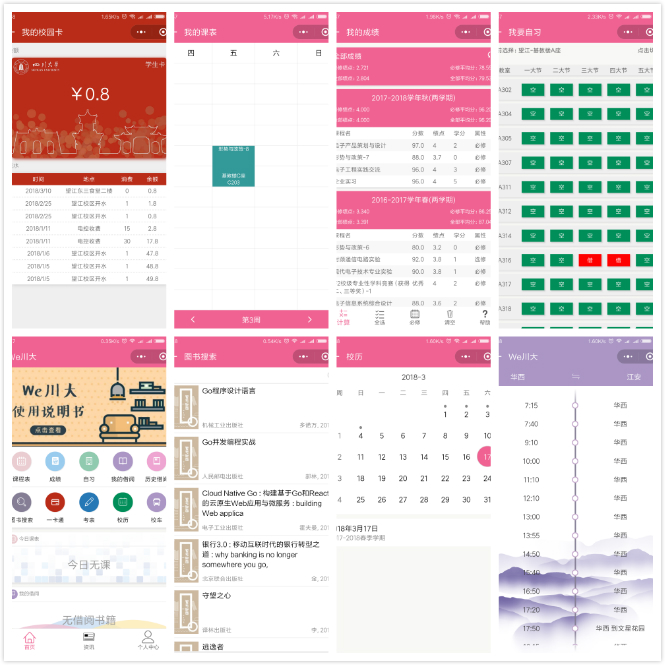
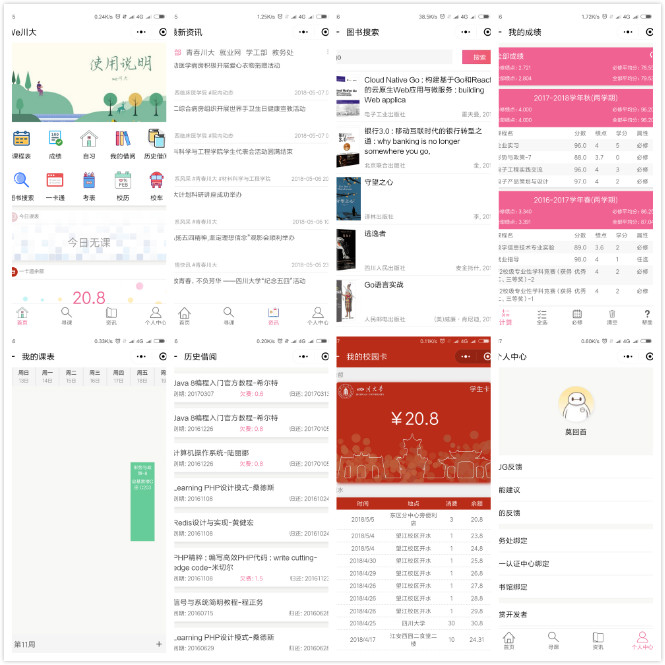
update readme

diff --git a/readme.md b/readme.md
@@ -9,27 +9,56 @@
 ## 功能概要
 
 - [x] 成绩查询/绩点计算器/成绩更新通知
-- [x] 我的课程表
+- [x] 我的课程表（完善的课程表，包含时间日期，并且可以自定义）
 - [x] 图书搜索/我的借阅/续借/历史借阅/图书到期通知
 - [x] 空闲/自习教室
 - [x] 一卡通信息
 - [x] 考表/考试通知
-- [x] 校历
+- [x] 校历（基础的日历功能，事件订阅功能待开发）
 - [x] 校车时刻表
-- [x] 资讯(0.7.0会大改，并且加入10个以上学院官网资讯)
+- [x] 资讯(完善的资讯功能，类似今日头条，网易新闻，可以选择不超过10个栏目)
 - [x] 反馈/查看/评论/通知(已整合github issues)
-- [ ] 选课助手(0.8.0规划，会实现包括教师历史评价，课程历史平均得分)
-- [ ] 评教助手(0.8.0规划，类似目前scuplus公众号的快捷评教)
+- [x] 寻课（课程助手，可以获取课程详细信息，拥有该课程的用户可以进行评价）
+- [ ] 寻物/寻卡(失物招领,并且针对校园卡单独分类) - 0.10.x
+- [ ] 小纸条（社交功能，类似于微博/论坛,实现话题或者版块功能）- 0.11.x
 
 ## 扫码体验
 
 ![img/qcode.jpg](img/qcode.jpg)
 
 ## 预览
-> 部分页面，截止于0.6.1
+> 部分页面，截止于0.9.2
 
 ![img/preview.jpg](img/preview.jpg)
 
-## Feature && ChangeLog
+## 安装说明
 
-[ChangeLog](ChangeLog.md)
+> 注意，we川大目前处于积极开发阶段，api/ui随时可能大改
+
+#### 1. 安装（更新） wepy 命令行工具。
+```bash
+npm install wepy-cli -g
+```
+
+#### 2. 克隆本仓库
+
+```bash
+git clone git@github.com:mohuishou/scuplus-wechat.git
+```
+
+#### 3. 安装依赖
+```bash
+cd scuplus-wechat
+npm install
+```
+
+#### 4. 修改配置文件
+```bash
+cd src/config
+mv index.example.js index.js
+```
+
+#### 5. 开启实时编译
+```bash
+npm run dev
+```
